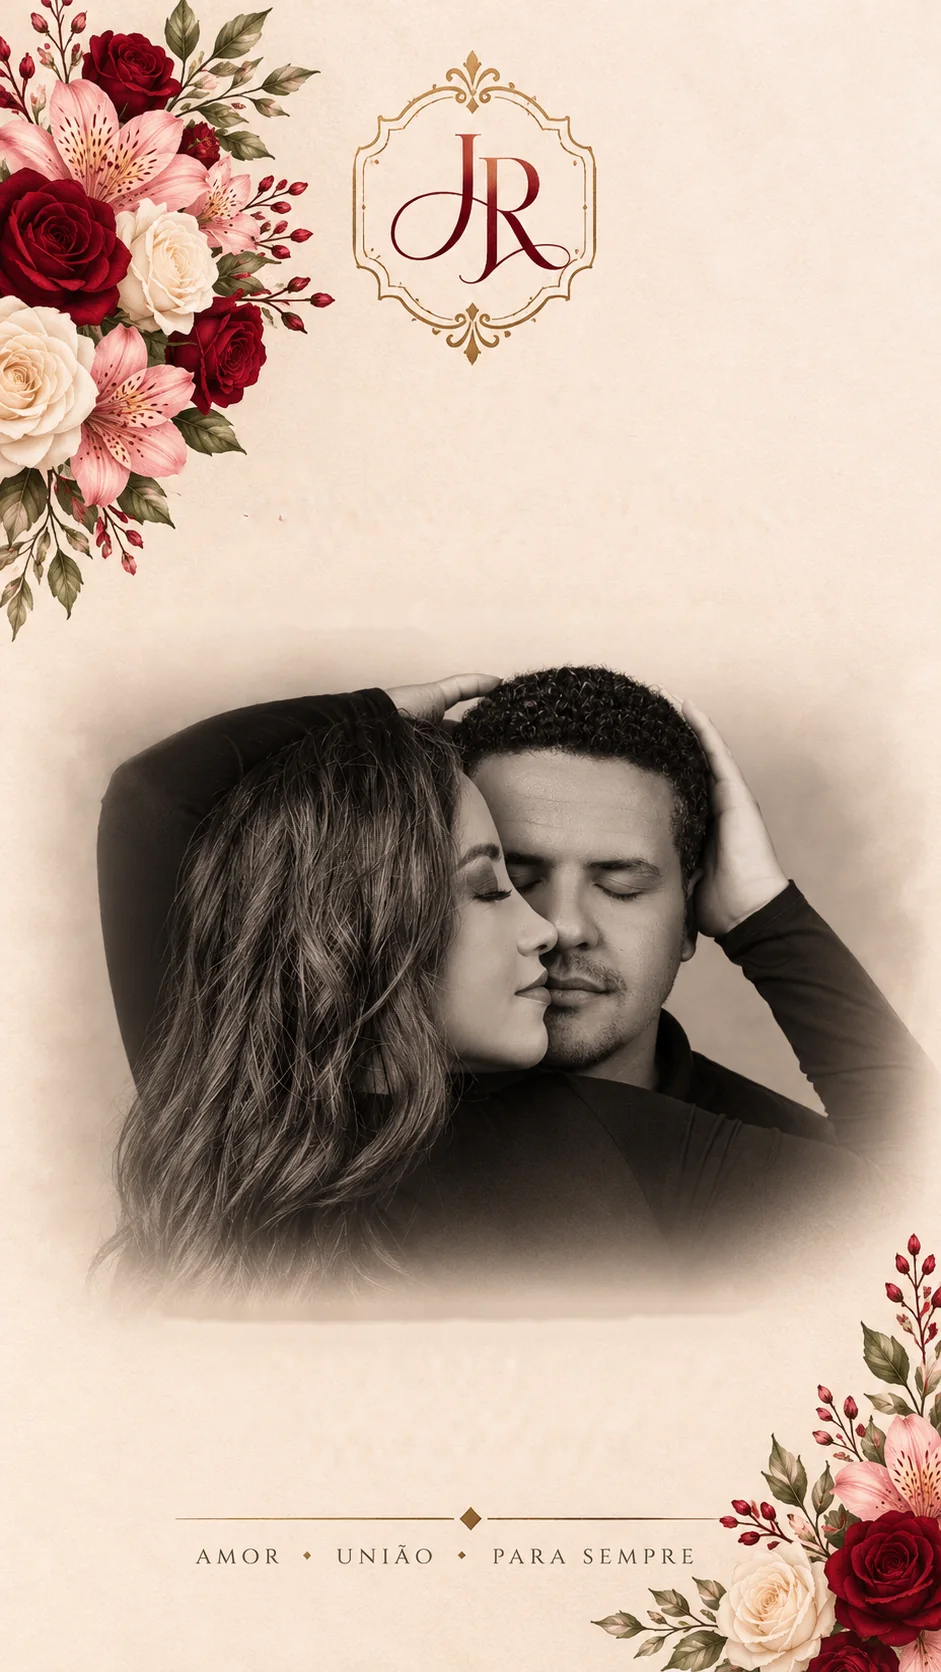
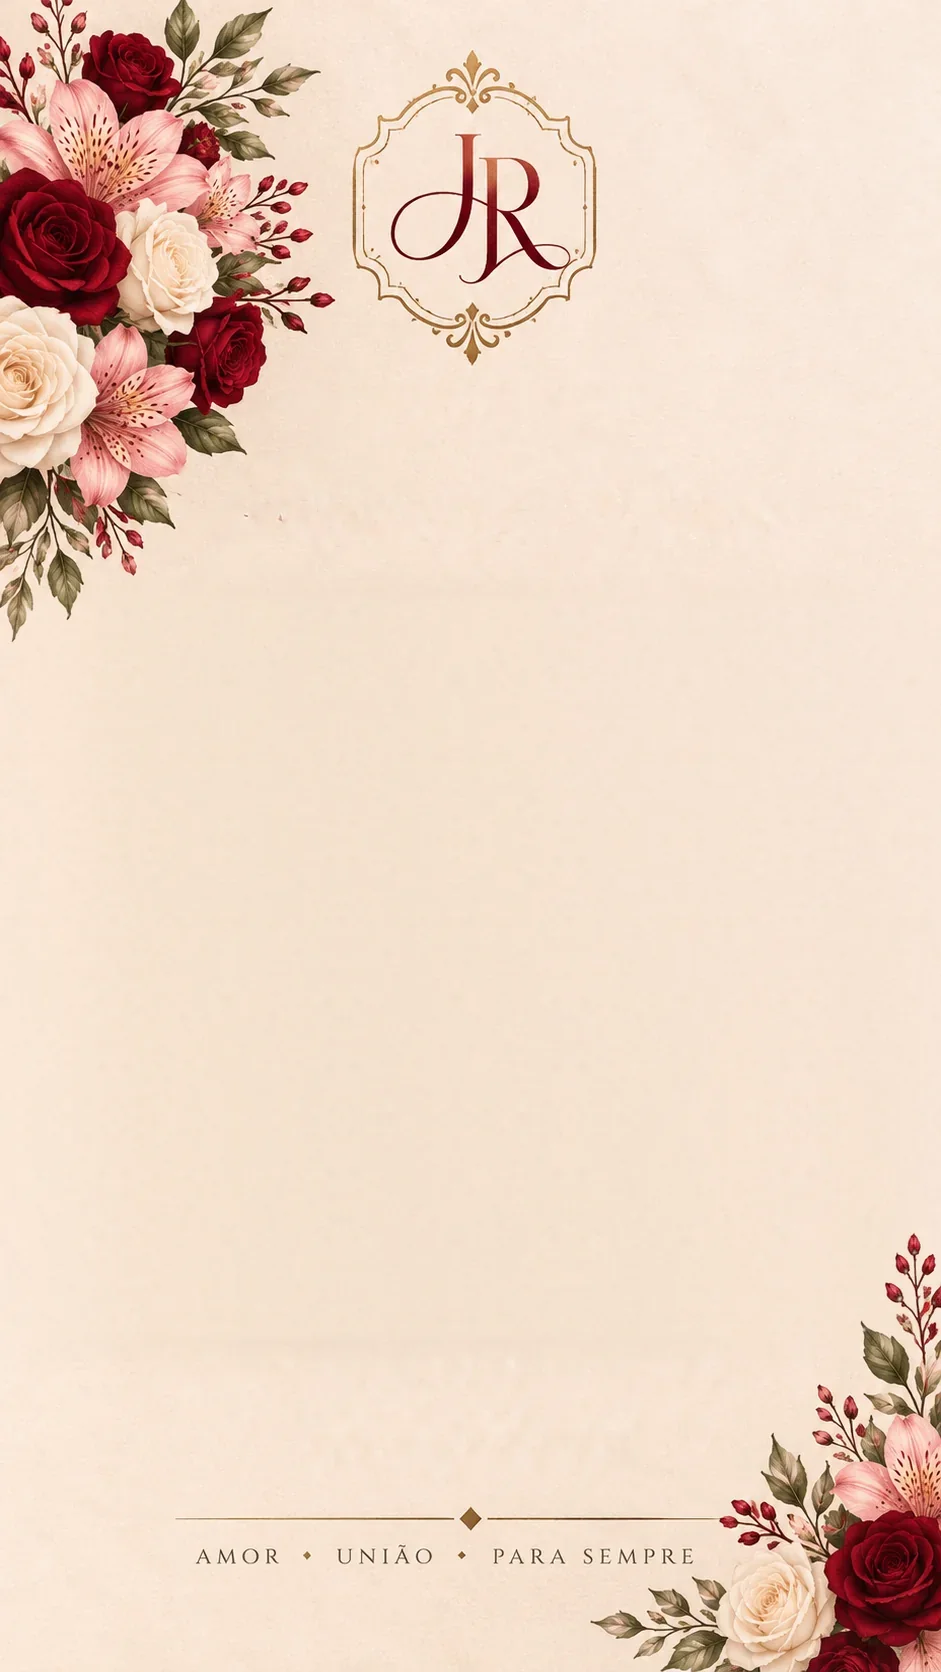
Página do convite: troca foto pelo local da cerimônia (tocável, abre mapa)
Claude-Session: https://claude.ai/code/session_01MHQvKQ5faZoyxYRQqU1WfL

diff --git a/index.html b/index.html
@@ -112,10 +112,27 @@
   .p4 .div1{left:32.944%;top:25.179%;width:34.006%;height:1.794%; transition-delay:1s}
   .p4 .nomes{left:18.278%;top:26.734%;width:67.375%;height:8.134%; transition-delay:1.3s}
   .p4 .convidam{left:16.366%;top:35.825%;width:67.163%;height:1.854%; transition-delay:3.5s}
-  .p4 .div2{left:16.472%;top:78.230%;width:66.419%;height:1.794%; transition-delay:4.1s}
-  .p4 .data{left:18.916%;top:80.502%;width:62.062%;height:2.452%; transition-delay:4.5s}
-  .p4 .pres1{left:22.742%;top:84.211%;width:54.623%;height:2.213%; transition-delay:5.3s}
-  .p4 .pres2{left:32.094%;top:86.603%;width:35.707%;height:1.734%; transition-delay:6s}
+  .p4 .div2{left:16.472%;top:78.230%;width:66.419%;height:1.794%; transition-delay:6.2s}
+  .p4 .data{left:18.916%;top:80.502%;width:62.062%;height:2.452%; transition-delay:6.5s}
+  .p4 .pres1{left:22.742%;top:84.211%;width:54.623%;height:2.213%; transition-delay:7.2s}
+  .p4 .pres2{left:32.094%;top:86.603%;width:35.707%;height:1.734%; transition-delay:7.8s}
+  .p4 .local{position:absolute; left:20.191%; top:43.361%; width:59.511%; height:27.811%; display:block; z-index:4; -webkit-tap-highlight-color:transparent}
+  .p4 .local img{position:absolute; pointer-events:none}
+  .p4 .local:active{filter:brightness(1.12)}
+  .p4 .pin{left:44.107%;top:1.720%;width:11.786%;height:20.860%; transition-delay:3.6s}
+  .p4 .ig1{left:1.429%;top:29.462%;width:97.143%;height:9.677%; transition-delay:3.9s}
+  .p4 .ig2{left:7.143%;top:40.645%;width:85.536%;height:10.323%; transition-delay:4.4s}
+  .p4 .div3{left:21.964%;top:53.978%;width:56.250%;height:5.591%; transition-delay:4.9s}
+  .p4 .en1{left:8.393%;top:66.452%;width:83.214%;height:7.527%; transition-delay:5.2s}
+  .p4 .en2{left:33.929%;top:74.839%;width:32.143%;height:6.237%; transition-delay:5.4s}
+  .p4 .mapa{left:13.929%;top:93.548%;width:71.964%;height:4.731%; transition-delay:5.8s}
+  .cai{opacity:0; transform:translateY(-40px)}
+  .visivel .cai{animation:cai 1s cubic-bezier(.34,1.56,.64,1) both, quica 2.6s ease-in-out infinite}
+  .p4.visivel .pin{animation-delay:3.6s, 5s}
+  @keyframes cai{0%{opacity:0; transform:translateY(-40px)}100%{opacity:1; transform:none}}
+  @keyframes quica{0%,100%{transform:none}50%{transform:translateY(-6px)}}
+  .p4.visivel .mapa{animation:piscaMapa 2.4s ease-in-out 7s infinite}
+  @keyframes piscaMapa{0%,100%{opacity:1}50%{opacity:.45}}
   .p4 .brilhoJR{left:36.663%;top:2.691%;width:27.630%;height:19.438%;
     -webkit-mask-image:url(assets/p4_mono_mask.png); mask-image:url(assets/p4_mono_mask.png)}
 
@@ -234,7 +251,7 @@
     <!-- Página 4 · Convite -->
     <section class="pagina p4" id="convite" data-density="soft">
       <div class="quadro">
-        <img class="fundo" src="assets/p4_base.webp" alt="Juntos, para sempre. Jéssica e Rônei convidam você para o seu casamento. 12 de fevereiro de 2027. Sua presença tornará este dia ainda mais especial.">
+        <img class="fundo" src="assets/p4_base.webp" alt="Juntos, para sempre. Jéssica e Rônei convidam você para o seu casamento. Paróquia Imaculado Coração de Maria, St. C Norte QNC 12, Taguatinga, Brasília - DF. 12 de fevereiro de 2027. Sua presença tornará este dia ainda mais especial.">
         <span class="brilhoJR"></span>
         <span class="faisca" style="left:35%;top:4%;animation-delay:1.8s"></span>
         <span class="faisca" style="left:63%;top:8%;animation-delay:2.7s"></span>
@@ -244,6 +261,15 @@
         <img class="cresce div1" src="assets/p4_div1.webp" alt="">
         <img class="mao nomes" src="assets/p4_nomes.webp" alt="">
         <img class="surge convidam" src="assets/p4_convidam.webp" alt="">
+        <a class="local" href="https://www.google.com/maps/search/?api=1&query=Par%C3%B3quia+Imaculado+Cora%C3%A7%C3%A3o+de+Maria+QNC+12+Taguatinga+Bras%C3%ADlia+DF" target="_blank" rel="noopener" aria-label="Abrir no mapa: Paróquia Imaculado Coração de Maria, St. C Norte QNC 12, Taguatinga, Brasília - DF">
+          <img class="cai pin" src="assets/p4_pin.webp" alt="">
+          <img class="escreve ig1" src="assets/p4_ig1.webp" alt="">
+          <img class="escreve ig2" src="assets/p4_ig2.webp" alt="">
+          <img class="cresce div3" src="assets/p4_div3.webp" alt="">
+          <img class="surge en1" src="assets/p4_en1.webp" alt="">
+          <img class="surge en2" src="assets/p4_en2.webp" alt="">
+          <img class="surge mapa" src="assets/p4_mapa.webp" alt="">
+        </a>
         <img class="cresce div2" src="assets/p4_div2.webp" alt="">
         <img class="abre data" src="assets/p4_data.webp" alt="">
         <img class="escreve pres1" src="assets/p4_pres1.webp" alt="">
